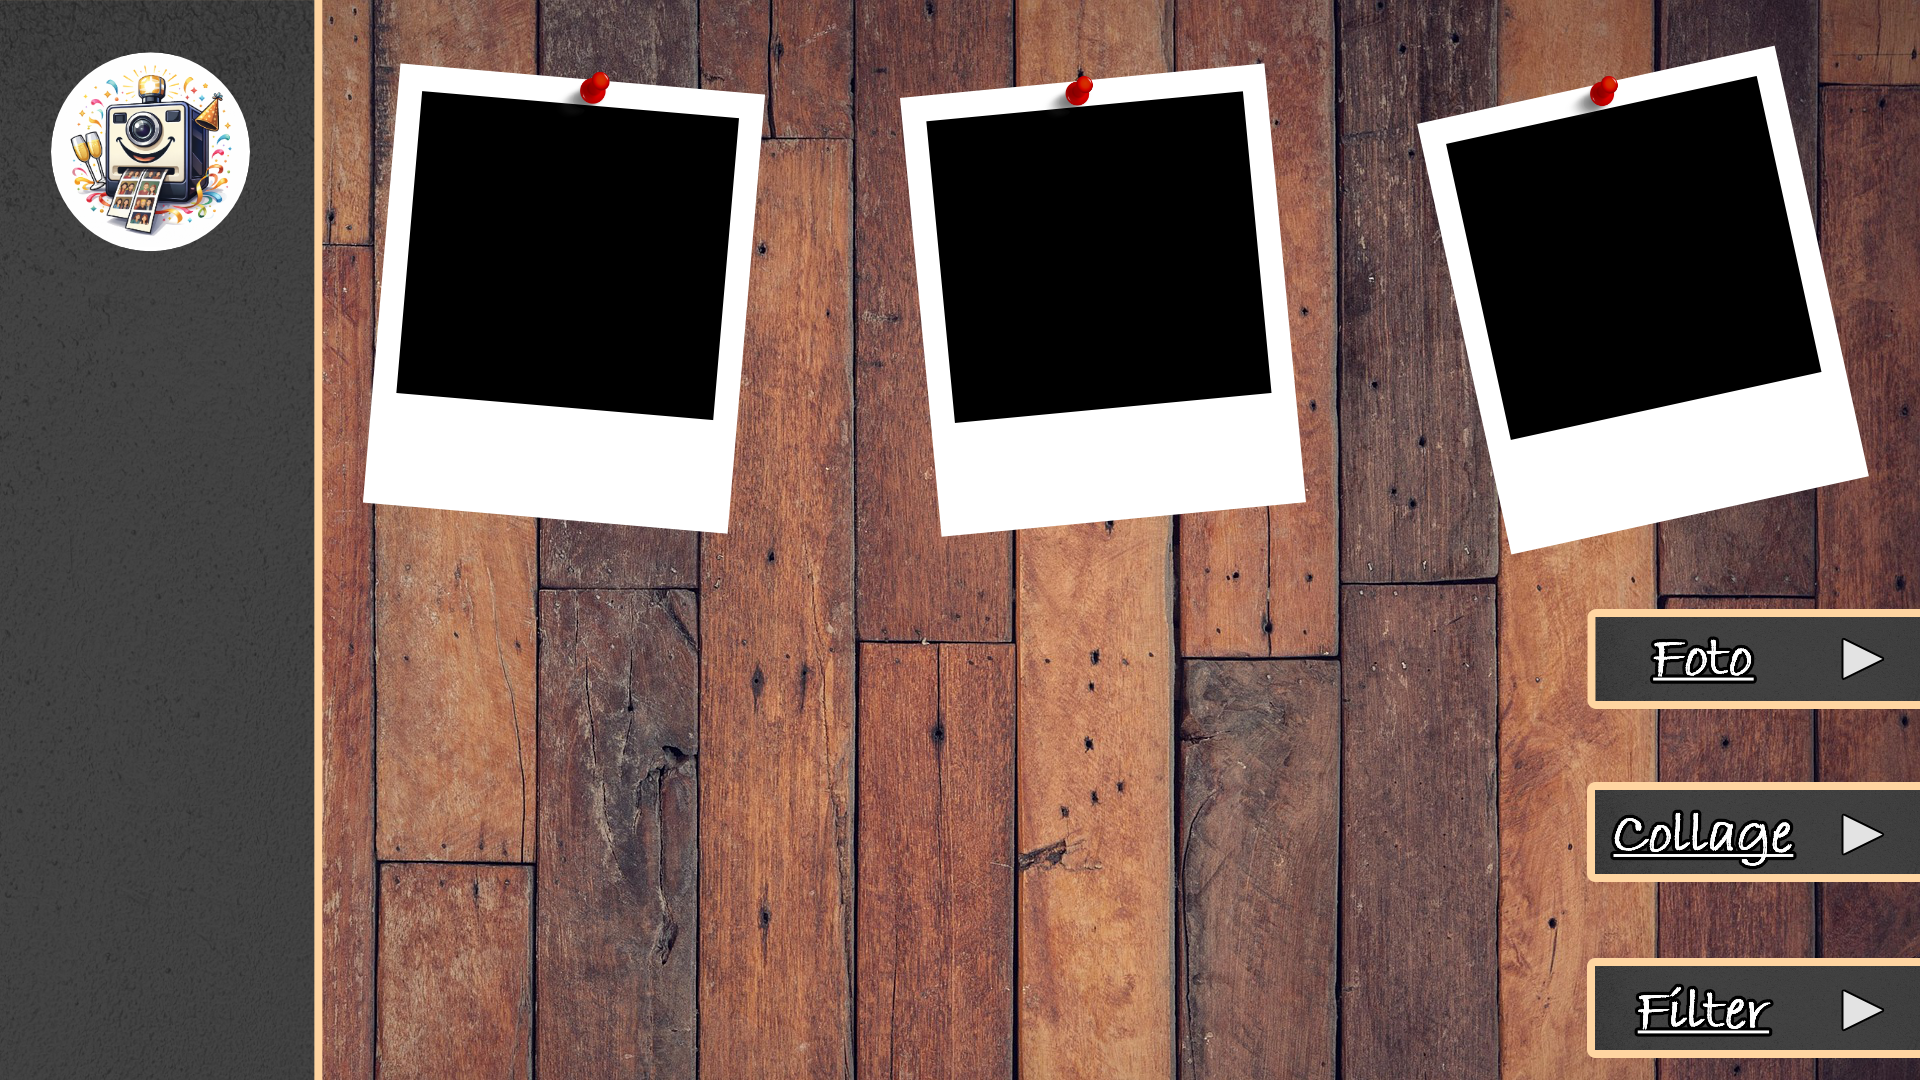
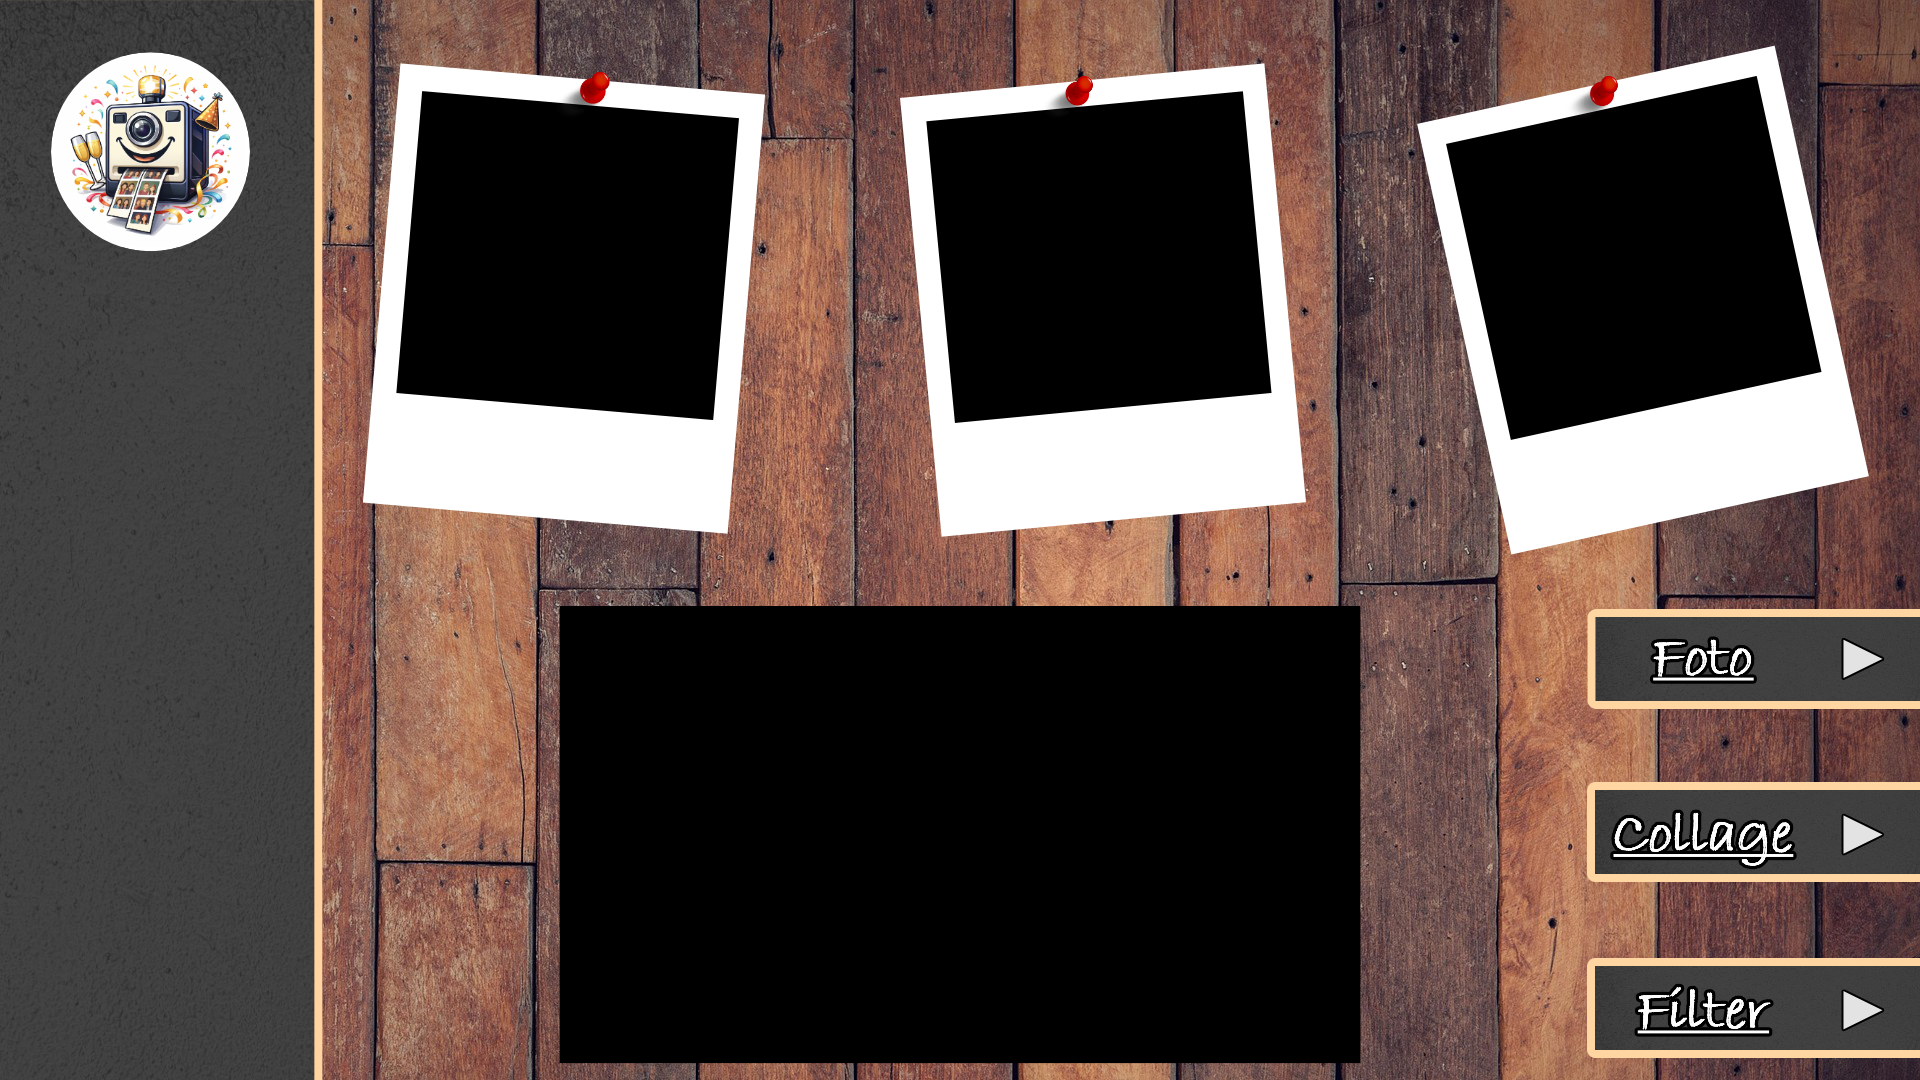
fix: Koordinaten aus neuem Overlay neu berechnet
- Live-View auf erkannten Kasten (560,601,800x479) gesetzt
- POLAROID_PHOTO_SIZE auf 310x295 (passend zu 317x302 Slot)
- Overlay_Allgemein2.png mit Live-View-Kasten aktualisiert

Changed region(s): [[0.2812, 0.55, 0.7188, 1.0]]

diff --git a/config.py b/config.py
@@ -14,17 +14,16 @@ PICTURE_PATH = os.path.join(BASE_DIR, "Picture_Box")
 OVERLAY_PATH = os.path.join(BASE_DIR, "Layout", "Overlay_Allgemein2.png")
 
 # Polaroid-Foto-Bereiche im Overlay (Mittelpunkt X, Mittelpunkt Y, Rotation in Grad)
-# Automatisch aus schwarzen Bereichen erkannt (Bild ist 1920×1080)
+# Automatisch aus schwarzen Bereichen berechnet (Bild 1920×1080)
+# Links: +4.9° CCW (top lehnt links), Mitte: -5.4° CW, Rechts: -12.3° CW
 POLAROID_FRAMES = [
-    (567,  255,   5),   # links  (top lehnt leicht nach links)
-    (1098, 256,  -5),   # mitte  (leicht nach rechts)
-    (1633, 257, -12),   # rechts (stärker nach rechts)
+    (567,  255,   5),    # links
+    (1098, 256,  -5),    # mitte
+    (1633, 257, -12),    # rechts
 ]
 
-# Größe des Foto-Bereichs in jedem Polaroid (schwarze Fläche)
-POLAROID_PHOTO_SIZE = (295, 290)
+# Größe des schwarzen Foto-Bereichs je Polaroid (aus minAreaRect: 317×302)
+POLAROID_PHOTO_SIZE = (310, 295)
 
-# Live-View Bereich (x, y, breite, höhe) — unter den Polaroids, zentriert zwischen Sidebar und Buttons
-# Horizontal: Sidebar endet ~x=130, Buttons beginnen ~x=1610 → 1100px zentriert → x=320
-# Vertikal:   Polaroids enden ~y=440 → y=470, Höhe=500
-LIVE_VIEW_RECT = (320, 470, 1100, 500)
+# Live-View Bereich — aus erkanntem schwarzen Kasten im Overlay
+LIVE_VIEW_RECT = (560, 601, 800, 479)
